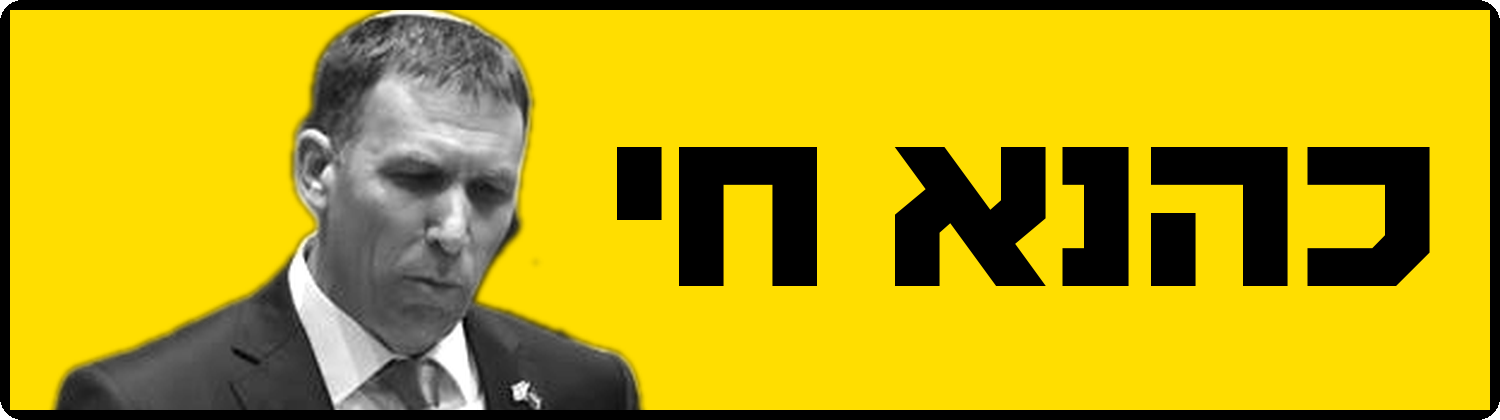
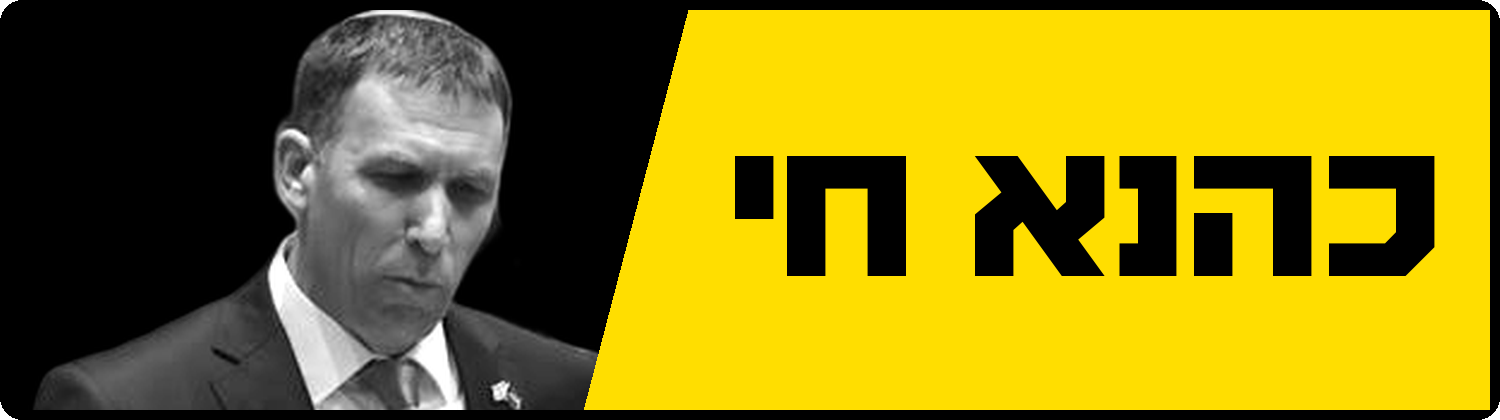
Personal sticker: black diagonal panel behind portrait
Claude-Session: https://claude.ai/code/session_01RS3QK6pAd3YhyAuXZSJjH1

diff --git a/content-kit/personal/2026-11-sticker-kahana/make_bumper.py b/content-kit/personal/2026-11-sticker-kahana/make_bumper.py
@@ -10,9 +10,12 @@ cut = cut.crop((0, 0, cut.width, int(cut.height * .62)))                      # 
 g = ImageEnhance.Contrast(ImageOps.grayscale(cut.convert('RGB'))).enhance(1.35)
 cut = Image.merge('RGBA', (g, g, g, cut.getchannel('A')))
 s = (H + 40) / cut.height; cut = cut.resize((int(cut.width * s), int(cut.height * s)), Image.LANCZOS)
-base.alpha_composite(cut, (10, H - cut.height + 40))
-d = ImageDraw.Draw(base); xr = W - 60
-d.text((xr, H / 2 + 6), 'כהנא חי', font=F(232), fill=K, anchor='rm', direction='rtl')
+bk = ImageDraw.Draw(base); bk.polygon([(0, 0), (690, 0), (580, H), (0, H)], fill=K + (255,))   # black panel, diagonal edge into the yellow
+pm = Image.new('L', (W, H), 0); ImageDraw.Draw(pm).polygon([(0, 0), (690, 0), (580, H), (0, H)], fill=255)
+pl = Image.new('RGBA', (W, H), (0, 0, 0, 0)); pl.alpha_composite(cut, (-10, H - cut.height + 40))
+base.alpha_composite(Image.composite(pl, Image.new('RGBA', (W, H), (0, 0, 0, 0)), pm))
+d = ImageDraw.Draw(base); xr = W - 50
+d.text((1085, H / 2 + 6), 'כהנא חי', font=F(200), fill=K, anchor='mm', direction='rtl')
 d.rectangle((0, 0, W - 1, H - 1), outline=K, width=10)
 m = Image.new('L', (W, H), 0); ImageDraw.Draw(m).rounded_rectangle((0, 0, W - 1, H - 1), 22, fill=255)
 out = Image.new('RGBA', (W, H), (0, 0, 0, 0)); out.paste(base, (0, 0), m)
